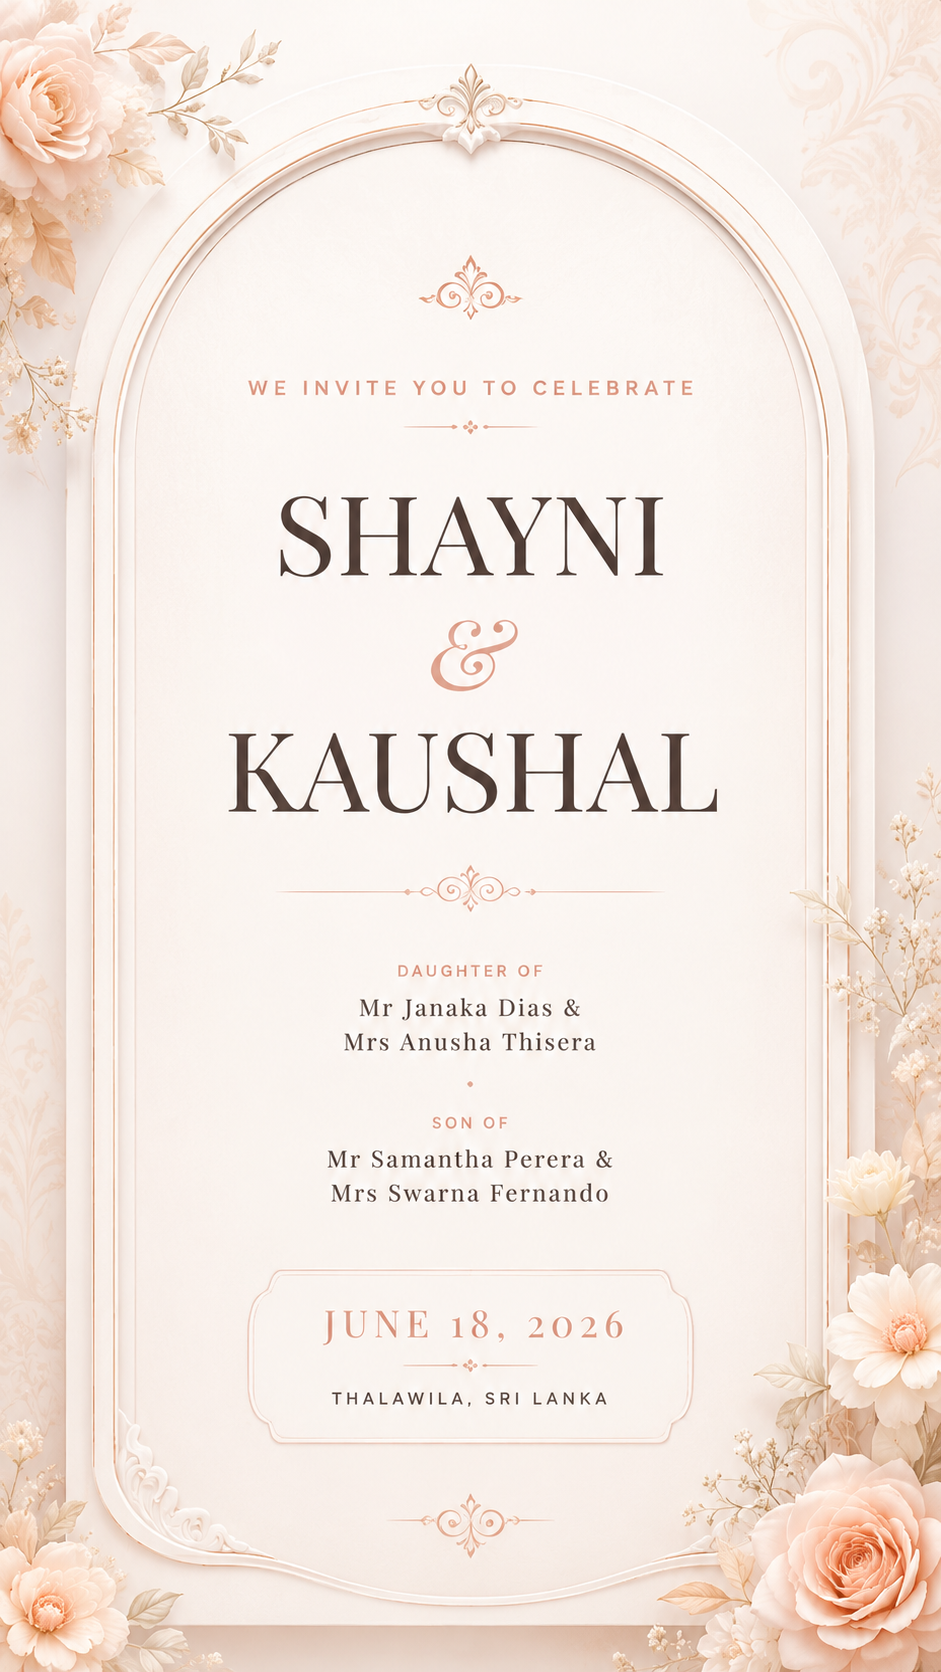
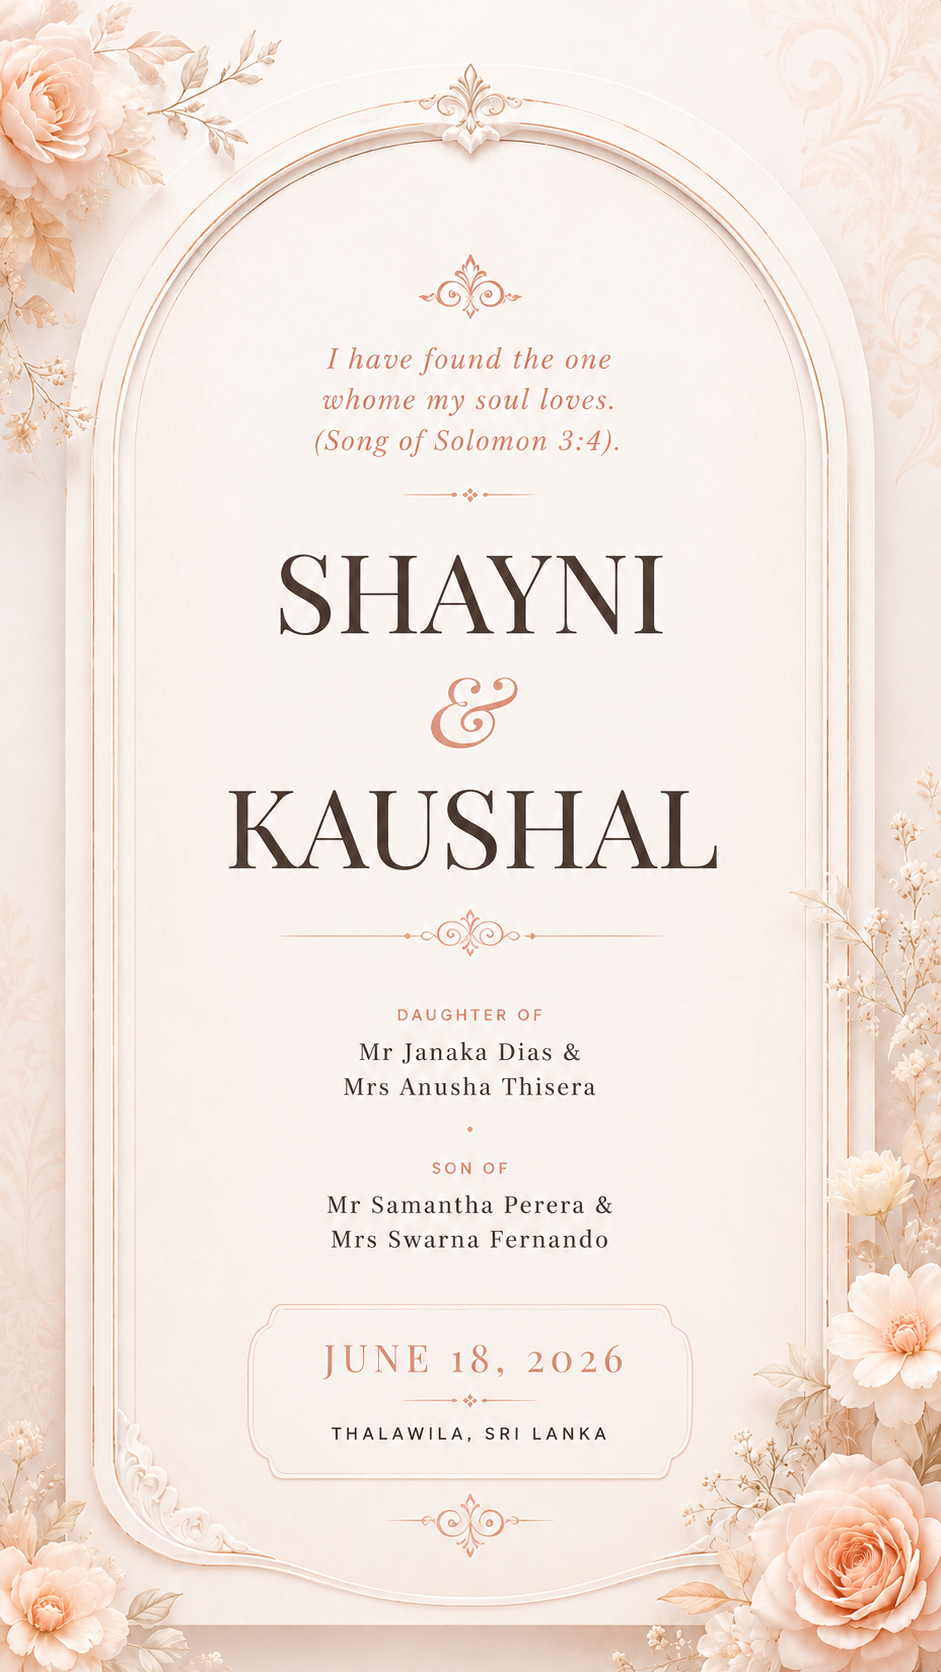
y

diff --git a/components/sections/CeremonyDetails.tsx b/components/sections/CeremonyDetails.tsx
@@ -93,18 +93,8 @@ export default function CeremonyDetails() {
                 className="absolute left-1/2 top-1/2 -translate-x-1/2 -translate-y-1/2 h-[500px] w-[500px] rounded-full bg-white/30 blur-[100px] pointer-events-none mix-blend-overlay"
               />
 
-              <div className="relative z-10 flex h-full flex-col items-center justify-center px-6 py-8 text-center text-white">
-                <motion.div 
-                  initial={{ opacity: 0, scale: 0.8 }}
-                  animate={inView ? { opacity: 1, scale: 1 } : {}}
-                  transition={{ duration: 1, delay: 0.4 }}
-                  className="relative z-10 inline-flex items-center gap-2 rounded-full border border-white/40 bg-white/10 px-6 py-2 backdrop-blur-xl shadow-[0_8px_32px_rgba(0,0,0,0.2)]"
-                >
-                  <Heart className="h-4 w-4 text-white fill-white/20" />
-                  <p className="text-[10px] uppercase tracking-[0.4em] text-white font-bold">Joined as One</p>
-                </motion.div>
-                
-                <h3 className="relative z-10 mt-6 md:mt-8 font-serif text-5xl md:text-7xl text-white tracking-wide drop-shadow-[0_15px_30px_rgba(0,0,0,0.6)]">
+              <div className="relative z-10 flex h-full flex-col items-center justify-end md:justify-center px-6 pb-12 md:py-8 text-center text-white">
+                <h3 className="relative z-10 font-serif text-3xl md:text-7xl text-white tracking-wide drop-shadow-[0_15px_30px_rgba(0,0,0,0.6)]">
                   S <span className="text-primary italic drop-shadow-[0_0_20px_rgba(255,255,255,0.4)]">&amp;</span> K
                 </h3>
                 
@@ -118,23 +108,33 @@ export default function CeremonyDetails() {
                   "Two hearts, one love, and a beautiful journey begins."
                 </p>
                 
-                <div className="relative z-10 mt-8 md:mt-12 group">
+                <div className="relative z-10 mt-6 md:mt-10 group">
                    <div className="absolute -inset-4 bg-white/20 blur-xl rounded-full opacity-0 group-hover:opacity-100 transition-all duration-700" />
                     <p className="relative z-10 text-xs md:text-sm uppercase tracking-[0.4em] text-white font-bold border-y border-white/40 py-3 md:py-4 px-6 md:px-8 backdrop-blur-sm">
                       June 18, 2026
                     </p>
                 </div>
+
+                <motion.div 
+                  initial={{ opacity: 0, scale: 0.8 }}
+                  animate={inView ? { opacity: 1, scale: 1 } : {}}
+                  transition={{ duration: 1, delay: 0.4 }}
+                  className="relative z-10 mt-6 md:mt-8 inline-flex items-center gap-2 rounded-full border border-white/40 bg-white/10 px-6 py-2 backdrop-blur-xl shadow-[0_8px_32px_rgba(0,0,0,0.2)]"
+                >
+                  <Heart className="h-4 w-4 text-white fill-white/20" />
+                  <p className="text-[10px] uppercase tracking-[0.4em] text-white font-bold">Joined as One</p>
+                </motion.div>
               </div>
 
               {/* Elegant floating badge */}
               <motion.div
                 animate={{ y: [0, -15, 0], rotate: [0, 3, -3, 0] }}
                 transition={{ duration: 7, repeat: Infinity, ease: 'easeInOut' }}
-                className="absolute -right-6 top-20 flex h-36 w-36 items-center justify-center rounded-full border border-white/20 bg-white/10 shadow-[0_0_50px_rgba(0,0,0,0.3)] backdrop-blur-2xl"
+                className="absolute -right-3 md:-right-6 top-10 md:top-20 flex h-20 w-20 md:h-36 md:w-36 items-center justify-center rounded-full border border-white/20 bg-white/10 shadow-[0_0_50px_rgba(0,0,0,0.3)] backdrop-blur-2xl"
               >
                 <div className="text-center">
-                  <Crown className="mx-auto h-10 w-10 text-white" />
-                  <span className="mt-2 block text-[10px] font-bold uppercase tracking-[0.4em] text-white">Forever</span>
+                  <Crown className="mx-auto h-6 w-6 md:h-10 md:w-10 text-white" />
+                  <span className="mt-1 md:mt-2 block text-[8px] md:text-[10px] font-bold uppercase tracking-[0.3em] md:tracking-[0.4em] text-white">Forever</span>
                 </div>
               </motion.div>
 

diff --git a/components/sections/InviteMessage.tsx b/components/sections/InviteMessage.tsx
@@ -29,21 +29,6 @@ export default function InviteMessage() {
           transition={{ duration: 0.8 }}
           className="flex flex-col items-center"
         >
-          {/* Bible Verse Quote */}
-          <motion.div 
-            initial={{ opacity: 0, y: 15 }}
-            animate={inView ? { opacity: 1, y: 0 } : {}}
-            transition={{ duration: 1, delay: 0.2 }}
-            className="mb-10 max-w-2xl mx-auto text-center"
-          >
-            <p className="font-serif text-xl md:text-2xl lg:text-3xl italic text-primary leading-relaxed drop-shadow-sm">
-              "I have found the one whom my soul loves."
-            </p>
-            <p className="text-[10px] md:text-xs font-bold uppercase tracking-[0.35em] text-slate-400 mt-4">
-              — Song of Solomon 3:4 —
-            </p>
-          </motion.div>
-
           <div className="inline-flex items-center gap-2 bg-white/80 backdrop-blur-md border border-primary/20 shadow-sm rounded-full px-5 py-2 mb-8">
             <Sparkles className="w-4 h-4 text-primary" />
             <span className="text-xs font-bold uppercase tracking-[0.2em] text-primary">Invitation</span>
